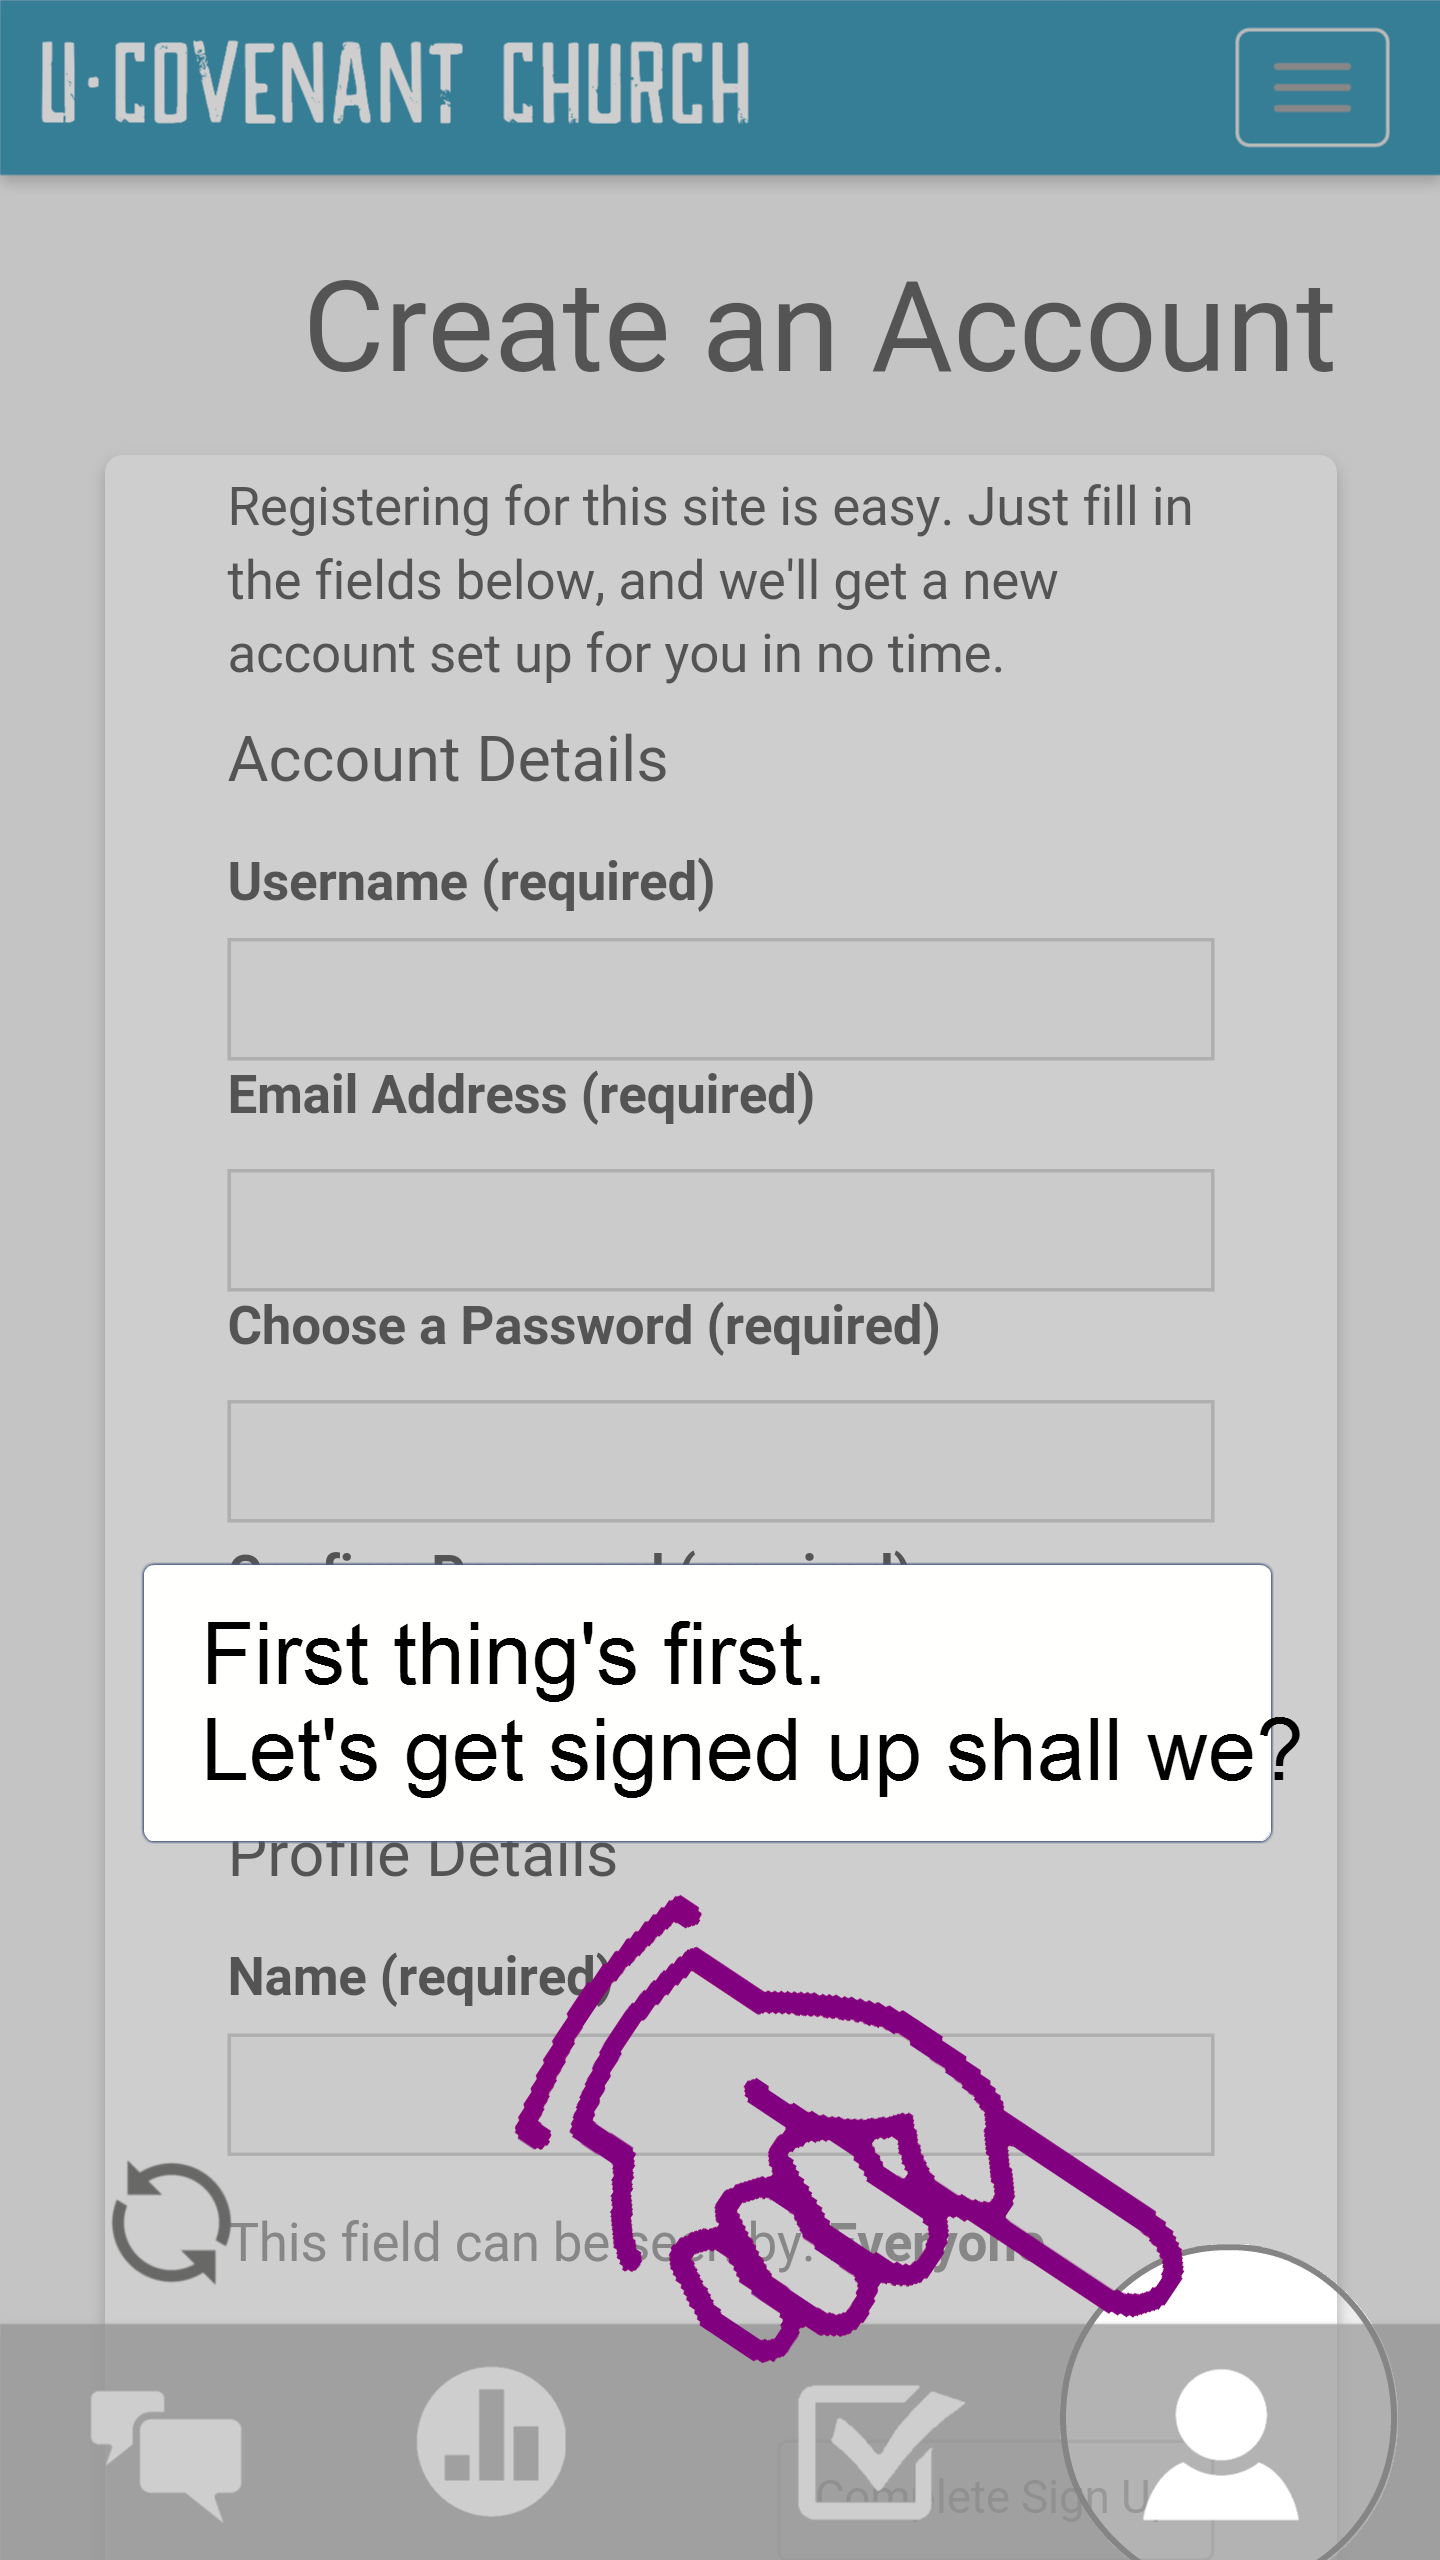
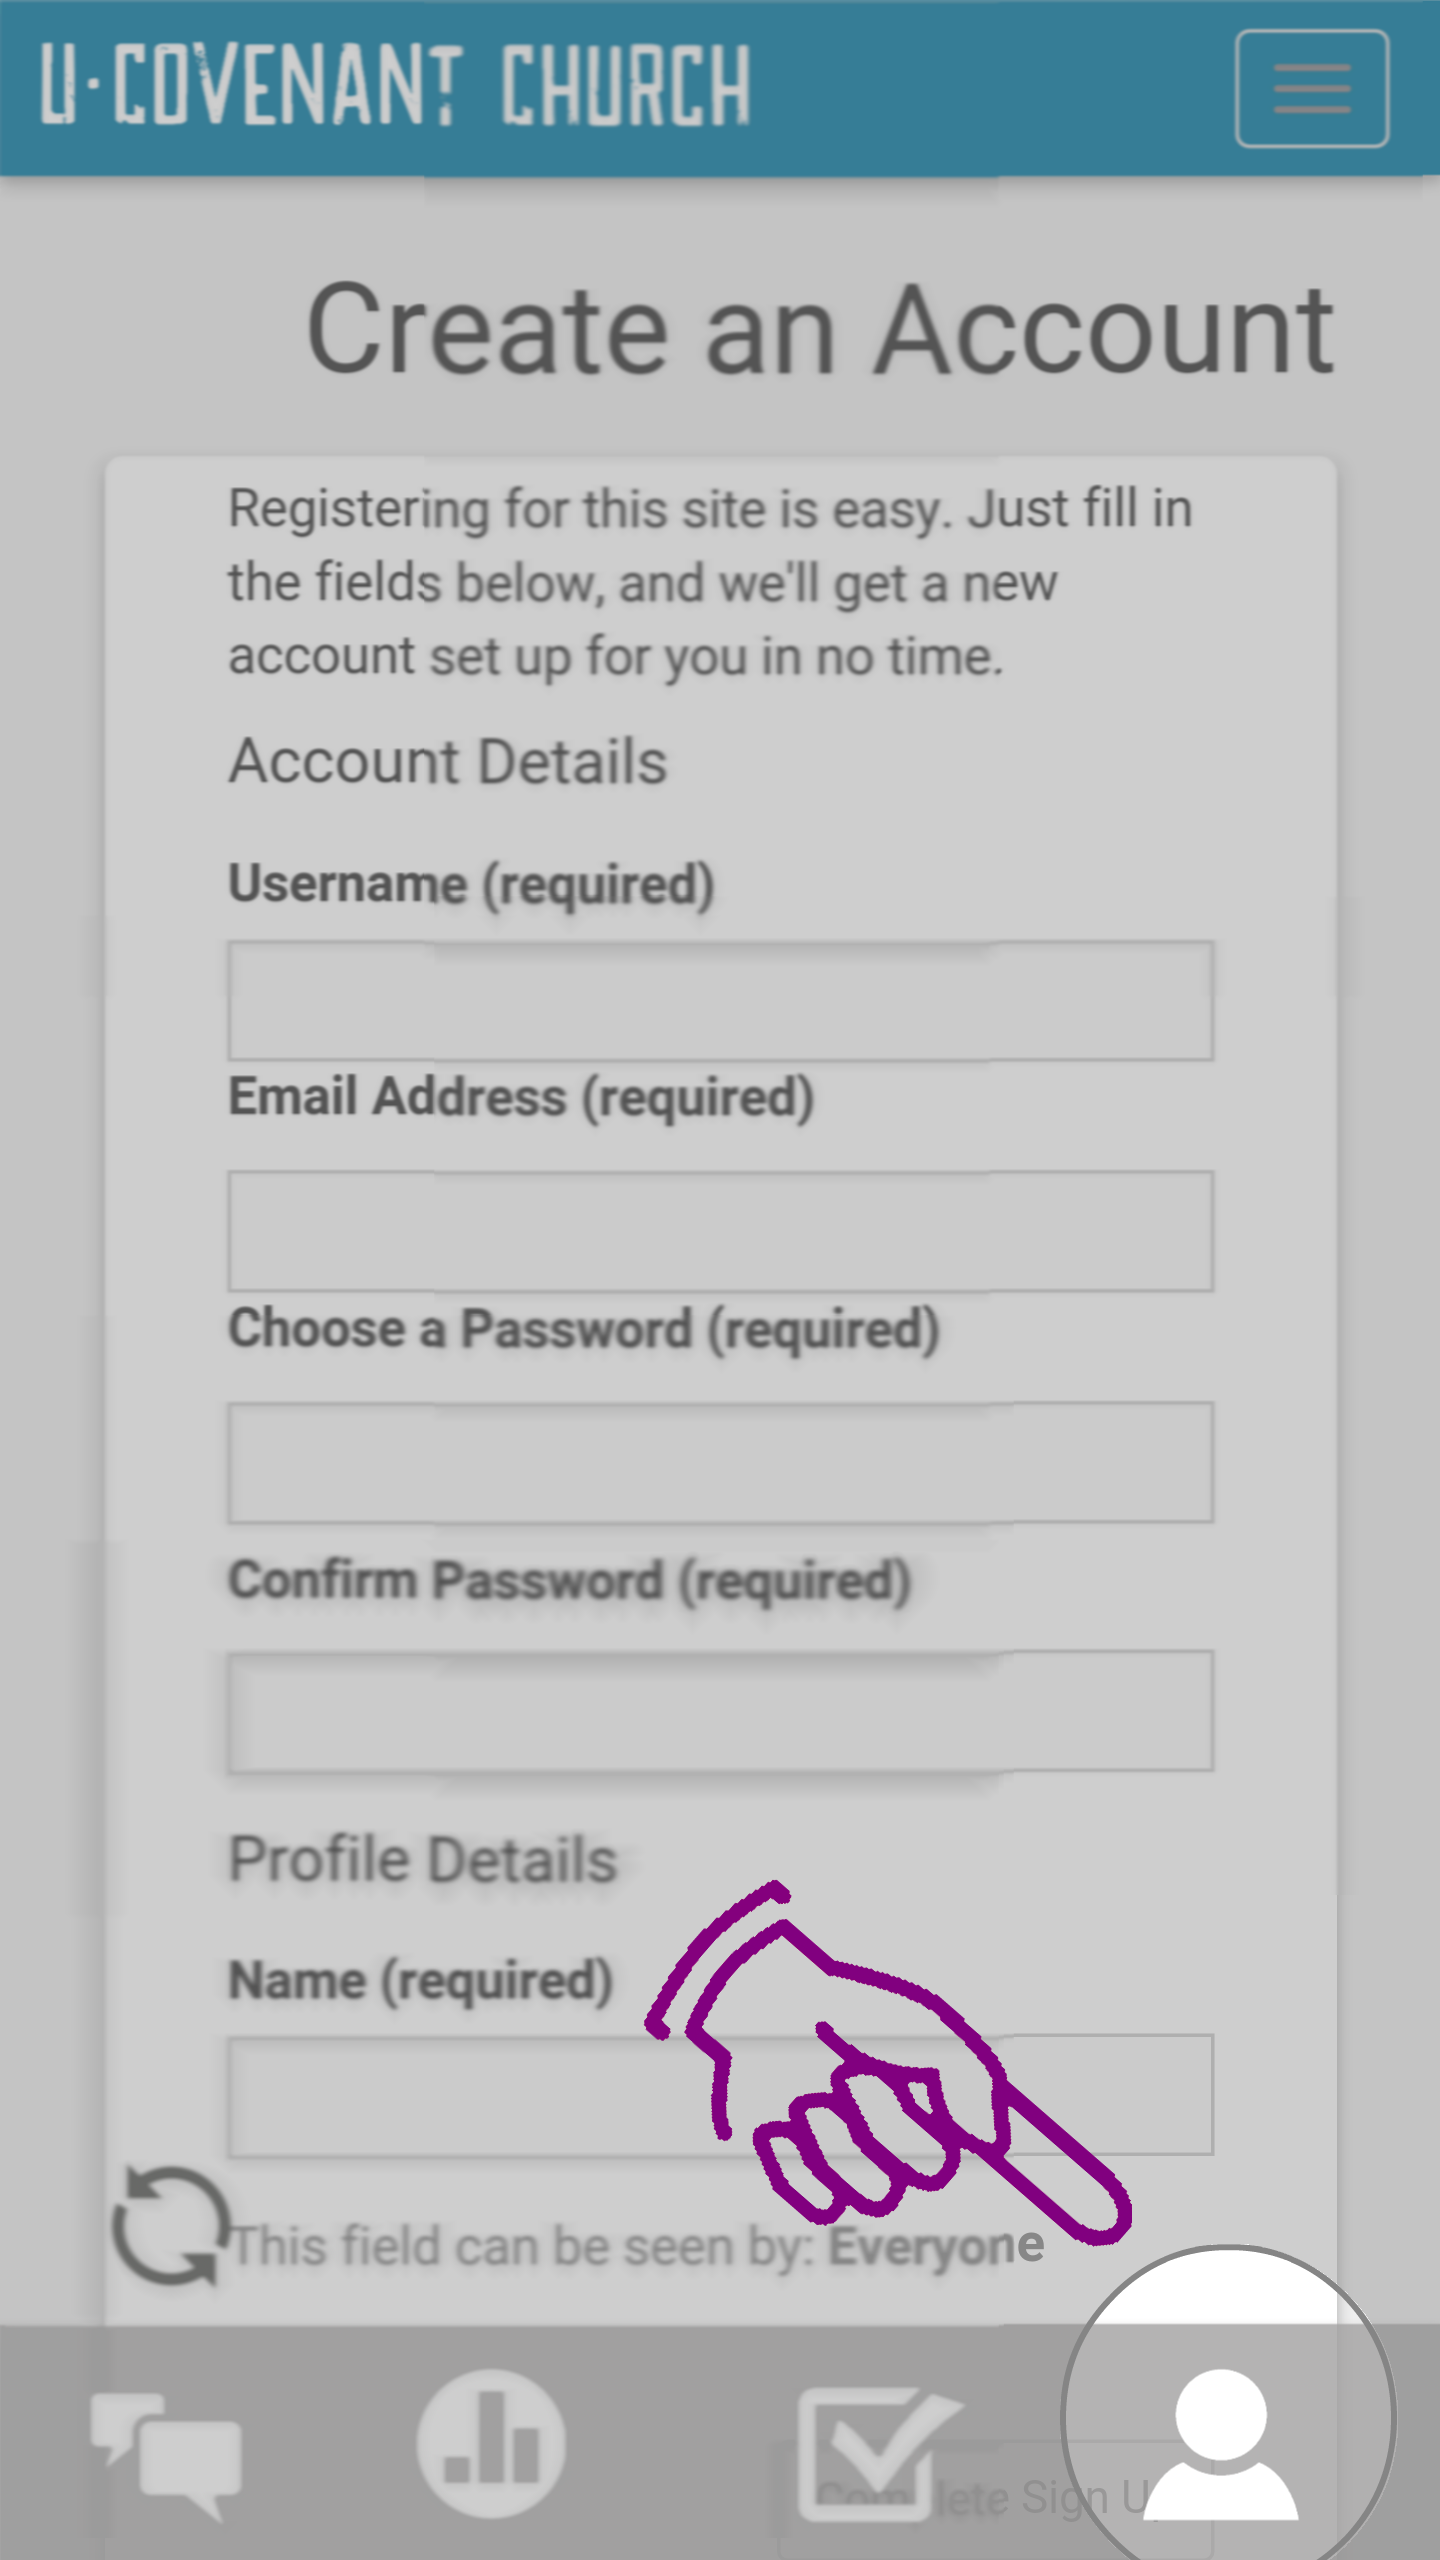
Image, text addition, and invisible button.

diff --git a/index.html b/index.html
@@ -2,6 +2,17 @@
 <head>
 <link rel="stylesheet" href="test.css">
 <style>
+
+html, body, body div, span, object, iframe, h1, h2, h3, h4, h5, h6, p, blockquote, pre, abbr, address, cite, code, del, dfn, em, img, ins, kbd, q, samp, small, strong, sub, sup, var, b, i, dl, dt, dd, ol, ul, li, fieldset, form, label, legend, table, caption, tbody, tfoot, thead, tr, th, td, article, aside, figure, footer, header, hgroup, menu, nav, section, time, mark, audio, video {
+    margin: 0;
+    padding: 0;
+    border: 0;
+    outline: 0;
+    font-size: 100%;
+    vertical-align: baseline;
+    background: transparent;
+}
+
 video#bgvid { 
     position: fixed;
     top: 50%;
@@ -25,7 +36,42 @@ video#bgvid {
   -moz-background-size: cover;
   -o-background-size: cover;
   background-size: cover;
+  min-height: 1000px;
+  margin: 0px;
 }
+
+.invisibleButton {
+
+    background: transparent;
+    border: none !important; 
+    font-size:0;
+	min-height: 100px;
+	min-width: 100px;
+	position: fixed;
+	bottom: 0px; 
+	right: 0px;
+	
+}
+
+.textBox {
+background-color:white;
+position:fixed;
+    top: 50%;
+    left: 50%;
+    width:60%;
+    height:auto;
+    margin-top: -9px; /*set to a negative number 1/2 of your height*/
+    margin-left: -40%; /*set to a negative number 1/2 of your width*/
+    border: 1px solid #ccc;
+	padding:15px;
+	border-radius: 10%;
+	-webkit-box-shadow: 0px -1px 18px -2px rgba(0,0,0,0.75);
+-moz-box-shadow: 0px -1px 18px -2px rgba(0,0,0,0.75);
+box-shadow: 0px -1px 18px -2px rgba(0,0,0,0.75);
+font-family: Helvetica;
+
+}
+
 </style>
 
 </head>
@@ -43,7 +89,7 @@ document.location.href="http://ucovenant.info";
   
 
     var element = document.getElementById("body");
-   element.innerHTML = "<div class='tutorial'><a href='intro2.html'><img src='images/rightArrow.png' style='height: 75px; width: 75px; margin-left:50%; margin-top; 80%;' /></a></div>";
+   element.innerHTML = "<div class='tutorial'><div class='textBox'>First thing's first. Let's get registered, shall we?</div><a href='intro2.html'><button class='invisibleButton'></button></a></div>";
 }
 </script>
 </div>
